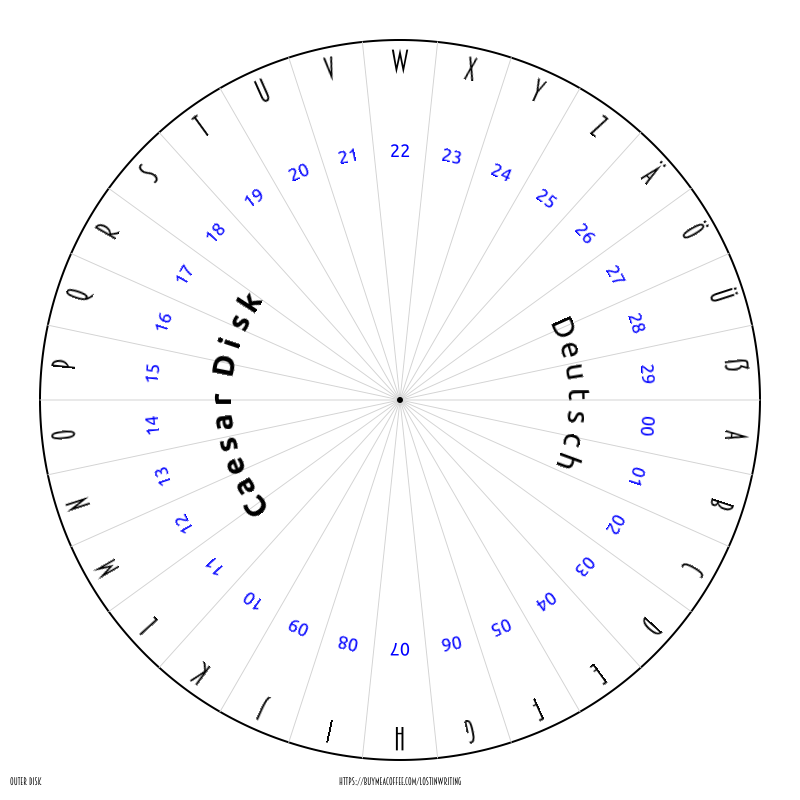
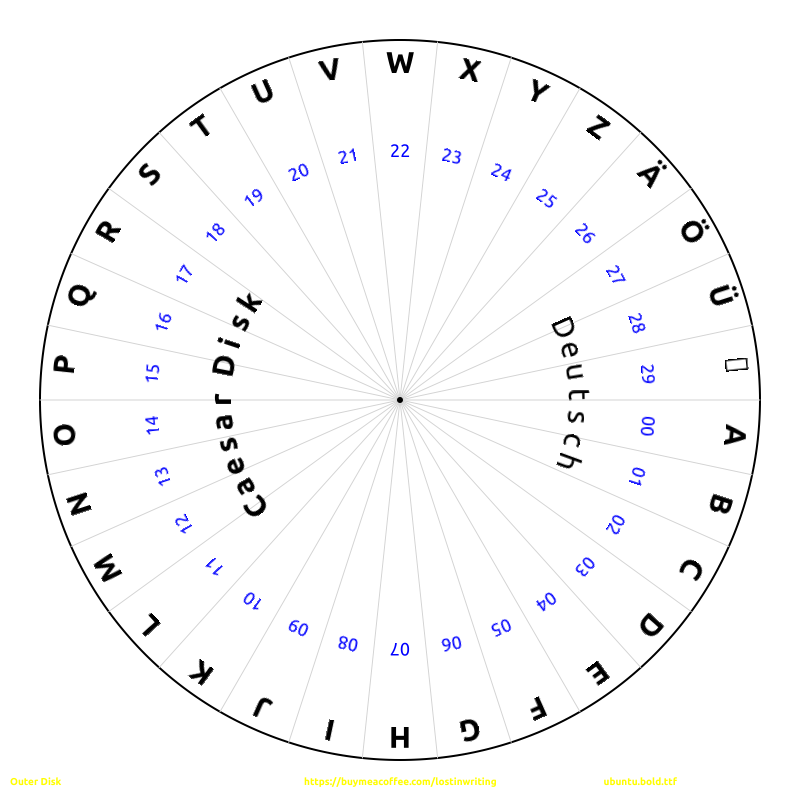
Close #2 Add all supported langs & transparency

diff --git a/generator.go b/generator.go
@@ -14,6 +14,7 @@ import (
 	"image/color"
 	"log"
 	"math"
+	"path/filepath"
 	"strings"
 
 	"github.com/fogleman/gg"
@@ -35,6 +36,12 @@ const (
 	// !"#$%&'()*+,-./ 0123456789:;<=>?
 	Alpha_EN string = "ABCDEFGHIJKLMNOPQRSTUVWXYZ"
 	Alpha_ES string = "ABCDEFGHIJKLMNÑOPQRSTUVWXYZÁÉÍÓÚ"
+	Alpha_CZ string = "ABCČDĎEFGHIJKLMNŇOPQRŘSŠTŤUVWXYÝZŽÁÉÍÓÚĚŮ"
+	Alpha_DE string = "ABCDEFGHIJKLMNOPQRSTUVWXYZÄÖÜẞ"
+	Alpha_IT string = "ABCDEFGHILMNOPQRSTUVZÉÓÀÈÌÒÙ"
+	Alpha_PT string = "ABCÇDEFGHIJKLMNOPQRSTUVWXYZÁÉÍÓÚÀÂÊÔÃÕ"
+	Alpha_GR string = "ΑΒΓΔΕΖΗΘΙΚΛΜΝΞΟΠΡΣΤΥΦΧΨΩ"
+	Alpha_RU string = "АБВГДЕËЖЗИЙКЛМНОПРСТУФХЦЧШЩЪЫЬЭЮЯ"
 	Alpha_PU string = `!"#$%&'()*+,-./ 0123456789:;<=>?`
 
 	SubTitle string = "C a e s a r  D i s k"
@@ -93,8 +100,8 @@ func (w CaesarWheelOptions) String() string {
 	var sb strings.Builder
 	fmt.Fprintf(&sb, "%15s: %d x %d pixels\n", "Size", w.Size.Dx(), w.Size.Dy())
 	fmt.Fprintf(&sb, "%15s: %d pixels\n", "Radius", int(w.Radius))
-	fmt.Fprintf(&sb, "%15s: %s @ %f\n", "Text font", w.LettersFontPath, w.LettersSize)
-	fmt.Fprintf(&sb, "%15s: %s @ %f\n", "Digit font", w.DigitsFontPath, w.DigitsSize)
+	fmt.Fprintf(&sb, "%15s: %s @ %.3f\n", "Text font", w.LettersFontPath, w.LettersSize)
+	fmt.Fprintf(&sb, "%15s: %s @ %.3f\n", "Digit font", w.DigitsFontPath, w.DigitsSize)
 	fmt.Fprintf(&sb, "%15s: %t\n", "Orthogonal", w.Orthogonal)
 	return sb.String()
 }
@@ -119,7 +126,7 @@ func loadFont(fontPath string, size float64) font.Face {
 }
 
 // Draw a text in a semicircle (arc)
-func drawArcText(arcText string, fontSize, width, height, radius float64, onLeft bool, fontPath string, dc *gg.Context) {
+func drawArcText(arcText string, fgColor color.Color, fontSize, width, height, radius float64, onLeft bool, fontPath string, dc *gg.Context) {
 	// Calculate the arc text position
 	arcLength := float64(len(arcText)) * fontSize * 0.5 // Estimate arc length based on font size
 	startAngle := -arcLength / (2 * radius)             // Start angle for the text arc
@@ -140,7 +147,8 @@ func drawArcText(arcText string, fontSize, width, height, radius float64, onLeft
 		dc.Push()
 		dc.Translate(x, y)
 		dc.Rotate(angle + math.Pi/2) // Rotate to align character
-		dc.SetRGB(0, 0, 0)           // black color for the text
+		//dc.SetRGB(0, 0, 0)           // black color for the text
+		dc.SetColor(fgColor)
 		dc.SetFontFace(arcFace)
 		dc.DrawStringAnchored(string(r), 0, 0, 0.5, 0.5) // Draw character
 		dc.Pop()
@@ -159,8 +167,8 @@ func GenerateCaesarWheel(letters string, filename string, inner bool, opts Caesa
 	y := float64(opts.Size.Dy() / 2)
 
 	dc := gg.NewContext(opts.Size.Dx(), opts.Size.Dy())
+	dc.Clear()         // start with transparent background
 	dc.SetRGB(1, 1, 1) // White background
-	dc.Clear()
 
 	// Load a TrueType font file, i.e. Arial.ttf
 	textFace := loadFont(opts.LettersFontPath, opts.LettersSize)
@@ -168,9 +176,20 @@ func GenerateCaesarWheel(letters string, filename string, inner bool, opts Caesa
 
 	// Draw the main circle outline
 	dc.SetLineWidth(2)
-	if !inner {
+	if !inner { // Disk with outer transparency
+		dc.DrawCircle(x, y, opts.Radius)
+		dc.Fill() // fill with white
+
 		dc.SetColor(color.Black)
 		dc.DrawCircle(x, y, opts.Radius)
+		dc.Stroke()
+	} else { // Inner disk with outer transparency
+		dc.DrawCircle(x, y, opts.Radius-opts.LettersSize-8)
+		dc.Fill()
+
+		dc.SetLineWidth(2)
+		dc.SetRGB255(0xd3, 0xd3, 0xd3)
+		dc.DrawCircle(x, y, opts.Radius-opts.LettersSize-10)
 		dc.Stroke()
 	}
 
@@ -211,7 +230,6 @@ func GenerateCaesarWheel(letters string, filename string, inner bool, opts Caesa
 			textX := x + textRadius*math.Cos(midAngle)
 			textY := y + textRadius*math.Sin(midAngle)
 
-			//dc.SetRGB(0, 0, 0) // Black color for text
 			dc.SetColor(opts.LetterColor.ToColor())
 			dc.Push()
 			dc.Translate(textX, textY)
@@ -219,7 +237,6 @@ func GenerateCaesarWheel(letters string, filename string, inner bool, opts Caesa
 			// DrawStringAnchored aligns the text's center point ot the calculated (textX, textY)
 			// 0.5 are the anchor points meaning 50% horizontal offset and 50% vertical offset,
 			// thus centered.
-			//dc.DrawStringAnchored(label, textX, textY, 0.5, 0.5)
 			dc.DrawStringAnchored(label, 0, 0, 0.5, 0.5)
 			dc.Pop()
 
@@ -236,17 +253,10 @@ func GenerateCaesarWheel(letters string, filename string, inner bool, opts Caesa
 			dc.Push()
 			dc.Translate(digitsX, digitsY)
 			dc.Rotate(angle)
-			//dc.DrawStringAnchored(indexLabel, digitsX, digitsY, 0.5, 0.5)
 			dc.DrawStringAnchored(indexLabel, 0, 0, 0.5, 0.5)
 			dc.Pop()
 		} else {
 			var textAltRadius = opts.Radius * 0.85
-
-			// Draw the main circle outline
-			dc.SetLineWidth(2)
-			dc.SetRGB255(0xd3, 0xd3, 0xd3)
-			dc.DrawCircle(x, y, opts.Radius-opts.LettersSize-10.0)
-			dc.Stroke()
 
 			textAltX := x + textAltRadius*math.Cos(midAngle)
 			textAltY := y + textAltRadius*math.Sin(midAngle)
@@ -262,9 +272,9 @@ func GenerateCaesarWheel(letters string, filename string, inner bool, opts Caesa
 			endAngle := (float64(1) / float64(n)) * 2 * math.Pi
 			dc.SetLineWidth(0.75)
 			dc.SetRGB(0.827, 0.827, 0.827)
-			dc.DrawArc(x, y, indexRadius+opts.DigitsSize, 0, endAngle)
+			dc.DrawArc(x, y, indexRadius+opts.DigitsSize-2, 0, endAngle)
 			dc.Stroke()
-			dc.DrawArc(x, y, indexRadius-opts.DigitsSize, 0, endAngle)
+			dc.DrawArc(x, y, indexRadius-opts.DigitsSize-2, 0, endAngle)
 			dc.Stroke()
 		}
 	}
@@ -275,26 +285,31 @@ func GenerateCaesarWheel(letters string, filename string, inner bool, opts Caesa
 	dc.DrawCircle(float64(opts.Size.Dx())/2, float64(opts.Size.Dy())/2, DOT_RADIUS)
 	dc.Fill() // Fill the circle to make it look like a solid dot
 
-	// Optional Arc Text
-	drawArcText(SubTitle, opts.LettersSize, float64(opts.Size.Dx()), float64(opts.Size.Dy()), opts.Radius*0.65, true, "ubuntu.bold.ttf", dc)
+	// -- Epilogue
+	// · Arc Text: "Caesar Disk"
+	// · Optional Arc Text: Title
+	drawArcText(SubTitle, color.Black, opts.LettersSize, float64(opts.Size.Dx()), float64(opts.Size.Dy()), opts.Radius*0.65, true, "ubuntu.bold.ttf", dc)
 	if len(opts.Title) != 0 {
-		drawArcText(opts.Title, opts.LettersSize, float64(opts.Size.Dx()), float64(opts.Size.Dy()), opts.Radius*0.65, false, "ubuntu.regular.ttf", dc)
+		drawArcText(opts.Title, color.Black, opts.LettersSize, float64(opts.Size.Dx()), float64(opts.Size.Dy()), opts.Radius*0.65, false, "ubuntu.regular.ttf", dc)
 	}
 
-	// Disk info
+	// · Disk set assembly information (inner OR outer disk)
 	copyrightFace := loadFont(opts.LettersFontPath, 10.0)
 	dc.SetFontFace(copyrightFace)
-	dc.SetColor(color.Black)
+	dc.SetColor(Yellow.ToColor())
 	textInfo := "Outer Disk"
 	if inner {
 		textInfo = "Inner Disk"
 	}
 	dc.DrawStringAnchored(textInfo, float64(10), float64(opts.Size.Dy()-20), 0, 0.5)
 
-	// Copyright text
+	// · Copyright & Donations text
 	copyrightText := "https://buymeacoffee.com/lostinwriting"
-
 	dc.DrawStringAnchored(copyrightText, float64(opts.Size.Dx()/2), float64(opts.Size.Dy()-20), 0.5, 0.5)
+
+	// · Text font used in rendering
+	basename := filepath.Base(opts.LettersFontPath)
+	dc.DrawStringAnchored(basename, float64(opts.Size.Dx())*0.80, float64(opts.Size.Dy()-20), 0.5, 0.5)
 
 	if err := dc.SavePNG(filename); err != nil { // or use SaveJPG
 		return fmt.Errorf("failed to save image: %w", err)

diff --git a/cmd/disk/main.go b/cmd/disk/main.go
@@ -18,9 +18,17 @@ import (
 /* ----------------------------------------------------------------
  *						G l o b a l s
  *-----------------------------------------------------------------*/
-const ()
 
-var ()
+const (
+	LANG_CZ string = "CZ" // Czech
+	LANG_DE string = "DE" // Deutsch (German)
+	LANG_EN string = "EN" // English
+	LANG_ES string = "ES" // Español (Spanish)
+	LANG_GR string = "GR" // Greek (Ελληνικά)
+	LANG_IT string = "IT" // Italiano
+	LANG_PT string = "PT" // Português
+	LANG_RU string = "RU" // Russian (русский) (кириллица)
+)
 
 /* ----------------------------------------------------------------
  *					F u n c t i o n s
@@ -50,14 +58,24 @@ func main() {
 	// the letter at the III o'clock position.
 
 	// I. Command-line flag definition and parsing
-	var flgHelp, flgES, flgPunct bool
+	var flgHelp, flgES, flgRU, flgPT, flgDE, flgGR, flgIT, flgCZ, flgPunct bool
 	var flgTextFontPath, flgDigitFontPath, flgAlphabet, flgTitle string
 	flag.Usage = Usage
 	flag.BoolVar(&flgHelp, "help", false, "This help")
-	flag.BoolVar(&flgES, "ES", false, "Spanish alphabet (overrides -alpha)")
+	// 1.1 flags for supported preset languages
+	flag.BoolVar(&flgES, LANG_ES, false, "Spanish alphabet (overrides -alpha)")
+	flag.BoolVar(&flgIT, LANG_IT, false, "Italian alphabet (overrides -alpha)")
+	flag.BoolVar(&flgPT, LANG_PT, false, "Portuguese alphabet (overrides -alpha)")
+	flag.BoolVar(&flgDE, LANG_DE, false, "German alphabet (overrides -alpha)")
+	flag.BoolVar(&flgRU, LANG_RU, false, "Cyrillic alphabet (overrides -alpha)")
+	flag.BoolVar(&flgGR, LANG_GR, false, "Greek alphabet (overrides -alpha)")
+	flag.BoolVar(&flgCZ, LANG_CZ, false, "Czech alphabet (overrides -alpha)")
+	// 1.2 flags for preset full punctuation, symbols, numbers and space (auxillary disk)
 	flag.BoolVar(&flgPunct, "PU", false, "Punctuation and numerical alphabet (overrides -alpha)")
-	flag.StringVar(&flgTitle, "title", "", "Title (usually disk language or ID)")
+	// 1.3 flag for custom alphabet
 	flag.StringVar(&flgAlphabet, "alpha", "", "Alphabet defaults to English ASCII alphabet")
+	// 1.4 flags for output formatting
+	flag.StringVar(&flgTitle, "title", "", "Title (usually disk language or ID)")
 	flag.StringVar(&flgTextFontPath, "text-font", "", "Text font path")
 	flag.StringVar(&flgDigitFontPath, "digit-font", "", "Digit font path (else use same text font)")
 	flag.Parse()
@@ -78,27 +96,104 @@ func main() {
 				Options.DigitsFontPath = flgTextFontPath
 			}
 		}
+		untitled := true
+		var langSuffix string
+		if len(flgTitle) != 0 {
+			untitled = false
+		}
+
+		var alphabet string = caesardisk.Alpha_EN
+		switch {
+		case flgPunct:
+			alphabet = caesardisk.Alpha_PU
+			langSuffix = "PU"
+
+		case flgES:
+			alphabet = caesardisk.Alpha_ES
+			if untitled {
+				flgTitle = "Español"
+			}
+			langSuffix = LANG_ES
+
+		case flgIT:
+			alphabet = caesardisk.Alpha_IT
+			if untitled {
+				flgTitle = "Italiano"
+			}
+			langSuffix = LANG_IT
+
+		case flgPT:
+			alphabet = caesardisk.Alpha_PT
+			if untitled {
+				flgTitle = "Português"
+			}
+			langSuffix = LANG_PT
+
+		case flgDE:
+			alphabet = caesardisk.Alpha_DE
+			if untitled {
+				flgTitle = "Deutsch"
+			}
+			langSuffix = LANG_DE
+
+		case flgCZ:
+			alphabet = caesardisk.Alpha_CZ
+			if untitled {
+				flgTitle = "Czech"
+			}
+			langSuffix = LANG_CZ
+
+		case flgGR:
+			alphabet = caesardisk.Alpha_GR
+			if untitled {
+				flgTitle = "Greek"
+			}
+			langSuffix = LANG_GR
+
+		case flgRU:
+			alphabet = caesardisk.Alpha_RU
+			if untitled {
+				flgTitle = "Cyrillic"
+			}
+			langSuffix = LANG_RU
+
+		case len(flgAlphabet) != 0:
+			alphabet = flgAlphabet // custom alphabet
+			langSuffix = ""
+
+		default:
+			alphabet = caesardisk.Alpha_EN
+			langSuffix = LANG_EN
+		}
+
 		if len(flgTitle) != 0 {
 			flgTitle := strings.Join(strings.Split(flgTitle, ""), " ")
 			Options.Title = flgTitle
 		}
 
-		var alphabet string = caesardisk.Alpha_EN
-		if flgPunct {
-			alphabet = caesardisk.Alpha_PU
-		} else if flgES {
-			alphabet = caesardisk.Alpha_ES
+		// III. Execute
+		generateFilename := func(basename string, isInner bool, suffix string) string {
+			if len(suffix) != 0 {
+				basename = basename + "_" + suffix
+			}
+			if isInner {
+				basename = basename + "_inner.png"
+			} else {
+				basename = basename + "_outer.png"
+			}
+			return basename
 		}
 
-		// III. Execute
 		generateWheel := func(alpha, filename string, inner bool, options caesardisk.CaesarWheelOptions) {
+			filename = generateFilename(filename, inner, langSuffix)
 			if err := caesardisk.GenerateCaesarWheel(alpha, filename, inner, options); err != nil {
 				fmt.Println(err)
 			}
 		}
 
-		generateWheel(alphabet, "caesar_disk_outer.png", false, Options)
-		generateWheel(alphabet, "caesar_disk_inner.png", true, Options)
+		// the filename is in base form
+		generateWheel(alphabet, "caesar_disk", false, Options)
+		generateWheel(alphabet, "caesar_disk", true, Options)
 		fmt.Print(Options)
 		fmt.Printf("%15s: %s\n", "Alphabet", alphabet)
 	}

diff --git a/version.go b/version.go
@@ -18,7 +18,7 @@ import (
  *							G l o b a l s
  *-----------------------------------------------------------------*/
 const (
-	MANUAL_VERSION string = "1.0" // in case vcsVersion not injected during link phase
+	MANUAL_VERSION string = "1.1" // in case vcsVersion not injected during link phase
 
 	// Useful Unicode Characters
 	CHR_COPYRIGHT       = '\u00a9'      // ©

diff --git a/rgb.go b/rgb.go
@@ -12,6 +12,8 @@ import (
 	"image/color"
 )
 
+var Yellow = NewRGBA[uint8](0xff, 0xfd, 0x01, 0xFF)
+
 /* ----------------------------------------------------------------
  *				P u b l i c		T y p e s
  *-----------------------------------------------------------------*/

diff --git a/LICENSE.md b/LICENSE.md
@@ -1,0 +1,21 @@
+# MIT License
+
+`Copyright (c) 2025 Lord of Scripts`
+
+Permission is hereby granted, free of charge, to any person obtaining a copy
+of this software and associated documentation files (the "Software"), to deal
+in the Software without restriction, including without limitation the rights
+to use, copy, modify, merge, publish, distribute, sublicense, and/or sell
+copies of the Software, and to permit persons to whom the Software is
+furnished to do so, subject to the following conditions:
+
+The above copyright notice and this permission notice shall be included in all
+copies or substantial portions of the Software.
+
+THE SOFTWARE IS PROVIDED "AS IS", WITHOUT WARRANTY OF ANY KIND, EXPRESS OR
+IMPLIED, INCLUDING BUT NOT LIMITED TO THE WARRANTIES OF MERCHANTABILITY,
+FITNESS FOR A PARTICULAR PURPOSE AND NONINFRINGEMENT. IN NO EVENT SHALL THE
+AUTHORS OR COPYRIGHT HOLDERS BE LIABLE FOR ANY CLAIM, DAMAGES OR OTHER
+LIABILITY, WHETHER IN AN ACTION OF CONTRACT, TORT OR OTHERWISE, ARISING FROM,
+OUT OF OR IN CONNECTION WITH THE SOFTWARE OR THE USE OR OTHER DEALINGS IN THE
+SOFTWARE.
